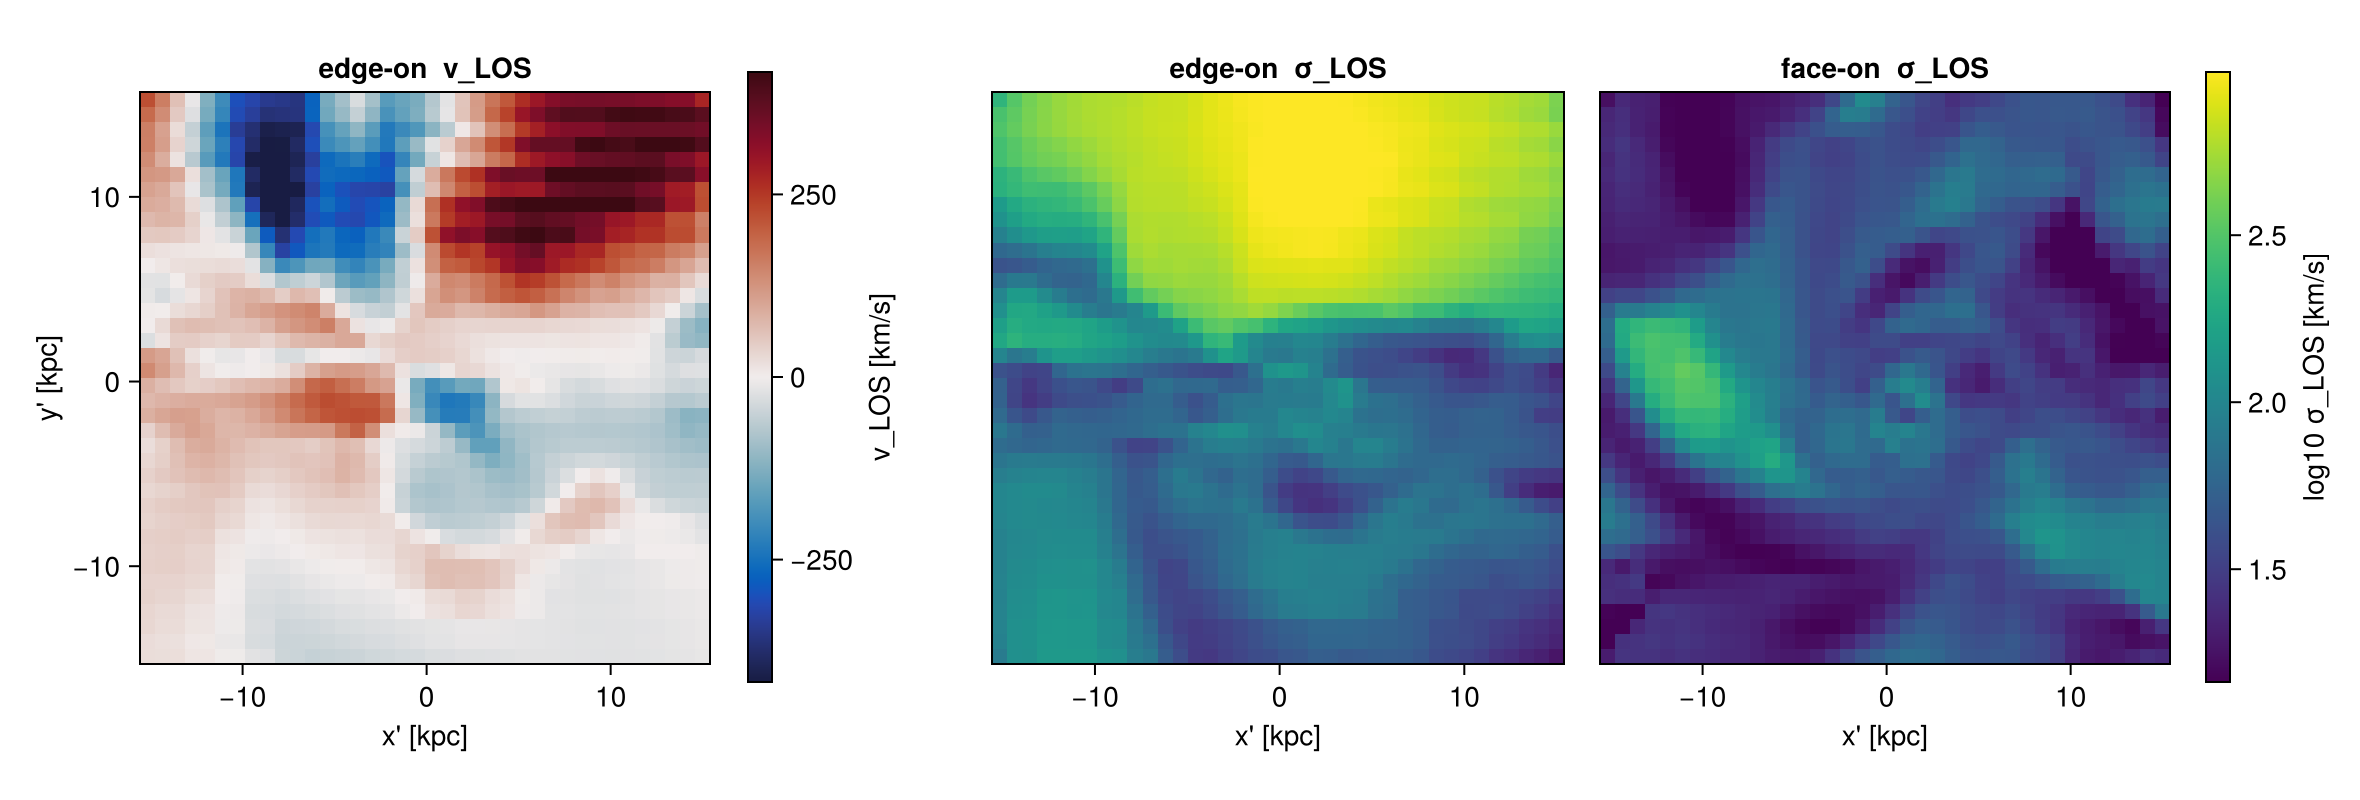
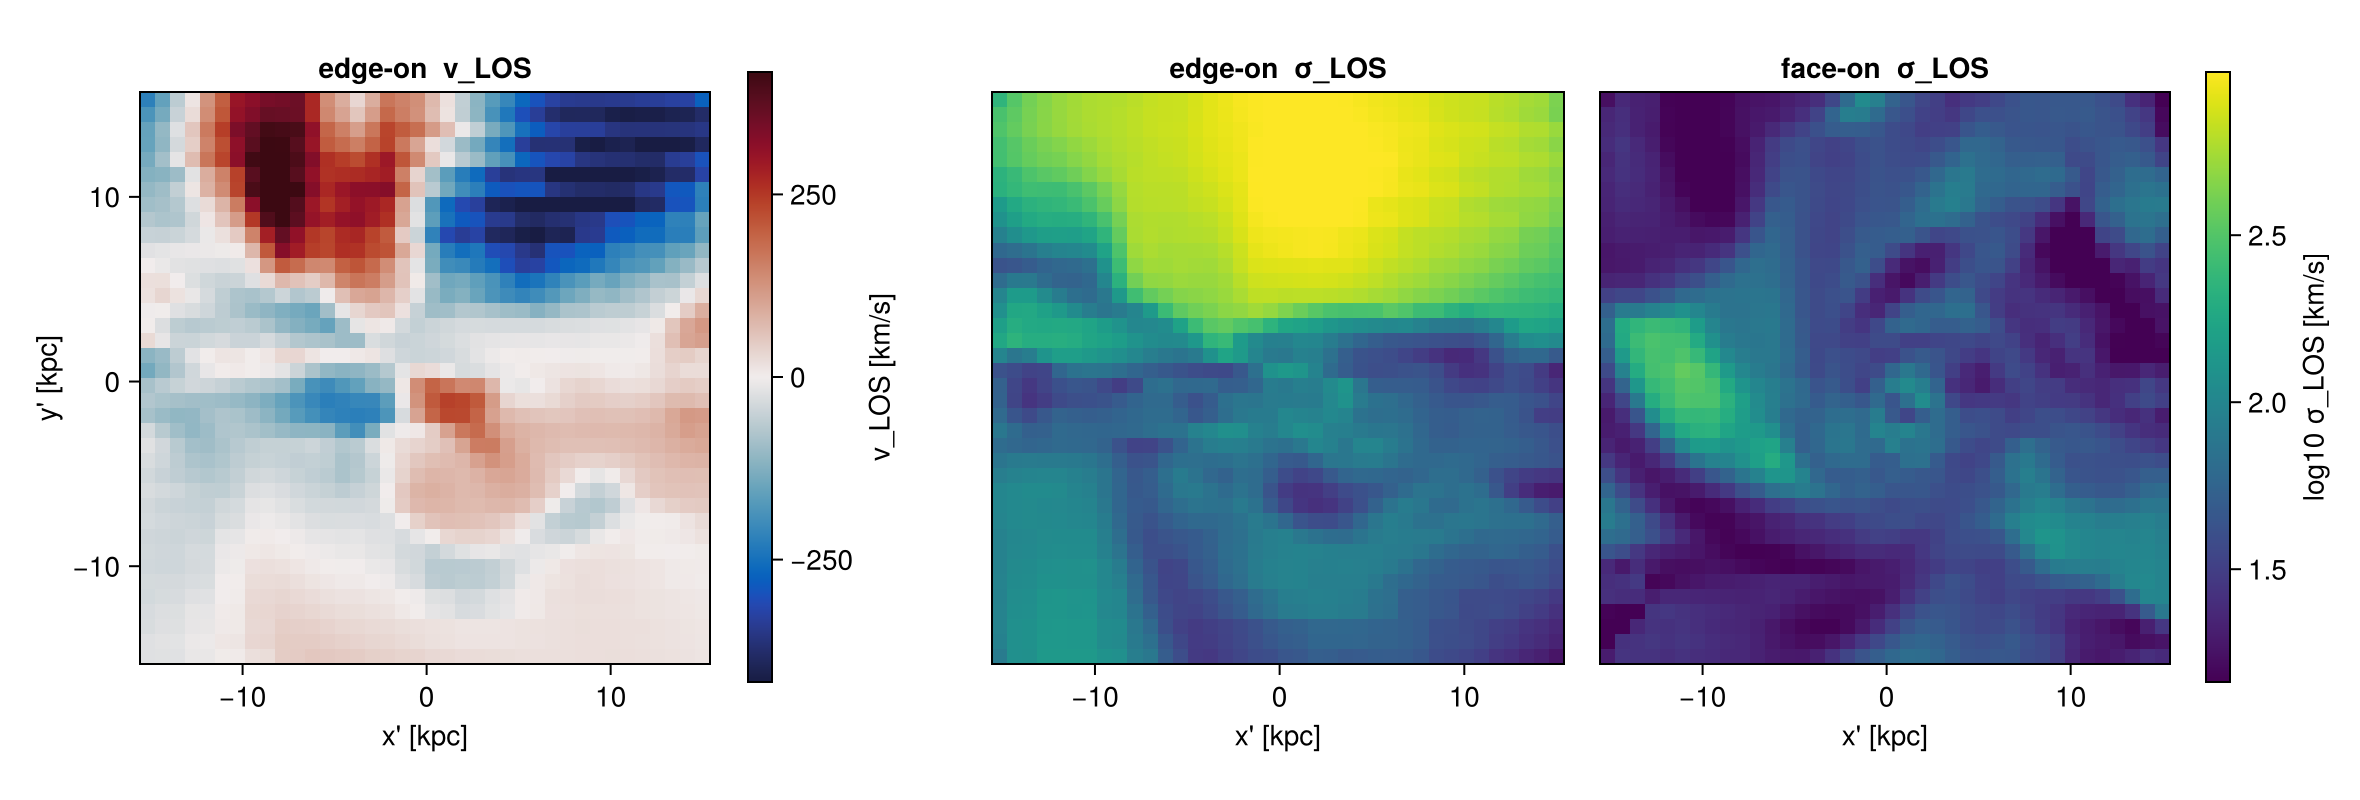
Re-run the off-axis page against the new vlos sign
* only the kinematics figure changes; the seven other maps are
  byte-identical, which is the expected signature of a vlos-only change
* 25 code cells, 0 errors, 8 figures

Changed region(s): [[0.0619, 0.0938, 0.3093, 0.75], [0.0928, 0.7812, 0.1547, 0.8438]]

diff --git a/docs/src/06_offaxis_Projection.md b/docs/src/06_offaxis_Projection.md
@@ -63,14 +63,27 @@ println("threads      : ", Threads.nthreads())
 ```
 
 ```
+[ Info: Precompiling Mera [02f895e8-fdb1-4346-8fe6-c721699f5126](cache misses: include_dependency fsize change (2), wrong source (1), dep missing source (1), mismatched flags (6))
+[ Info: Precompiling Mera [02f895e8-fdb1-4346-8fe6-c721699f5126] (cache misses: include_dependency fsize change (4), wrong source (2), dep missing source (2), mismatched flags (12))
+SYSTEM: caught exception of type :MethodError while trying to print a failed Task notice; giving up
 *__   __ _______ ______   _______
+SYSTEM: caught exception of type :MethodError while trying to print a failed Task notice; giving up
+SYSTEM: caught exception of type :MethodError while trying to print a failed Task notice; giving up
 |  |_|  |       |    _ | |   _   |
 |       |    ___|   | || |  |_|  |
+SYSTEM: caught exception of type :MethodError while trying to print a failed Task notice; giving up
 |       |   |___|   |_||_|       |
 |       |    ___|    __  |       |
 | ||_|| |   |___|   |  | |   _   |
 |_|   |_|_______|___|  |_|__| |__|
 Mera v1.8.0 | Julia 1.12.7 | 4 threads
+[ Info: Precompiling MeraMakieExt [defab1b5-6ec5-5409-a2f4-69ec619b2a0e](cache misses: wrong dep version loaded (3), incompatible header (6))
+[ Info: Precompiling MeraMakieExt [defab1b5-6ec5-5409-a2f4-69ec619b2a0e] (cache misses: wrong dep version loaded (6), incompatible header (12))
+SYSTEM: caught exception of type :MethodError while trying to print a failed Task notice; giving up
+[ Info: Mera v1.8.0
+SYSTEM: caught exception of type :MethodError while trying to print a failed Task notice; giving up
+SYSTEM: caught exception of type :MethodError while trying to print a failed Task notice; giving up
+SYSTEM: caught exception of type :MethodError while trying to print a failed Task notice; giving up
 cells loaded : 590311
 box length   : 100.0 kpc
 levels       : 3 – 7
@@ -326,7 +339,7 @@ end
              bound the depth, or `fov=<half-width>, fov_unit=…` for a fixed camera-plane
              frame (add aperture=:square for an identical frame at every angle).
              (shown once per session; verbose(false) silences Mera's messages)
-[Mera]: 2026-08-29T04:39:10.603
+[Mera]: 2026-08-30T13:16:46.662
 center: [0.5, 0.5, 0.5] ==> [50.0 [kpc] :: 50.0 [kpc] :: 50.0 [kpc]]
 domain:
 xmin::xmax: 0.28 :: 0.72  	==> 28.0 [kpc] :: 72.0 [kpc]
@@ -564,8 +577,8 @@ level 7.0:  cell 0.78  kpc  →  7.8 pixels per cell at pxsize = 0.1 kpc
 binning   empty px   time [s]  median |Δ| vs :exact [dex]
 ngp       85.7 %     0.006     1.0381
 cic       64.4 %     0.006     0.9733
-overlap   0.0 %      0.037     0.0021
-exact     0.0 %      0.092     0.0
+overlap   0.0 %      0.026     0.0021
+exact     0.0 %      0.09      0.0
 ```
 
 ### One number is not enough: where the disagreement lives
@@ -678,8 +691,8 @@ rather than a sampled approximation to it.
 
 ## 7. Line-of-sight kinematics
 
-`:vlos` is `v·ŵ`, the component of the velocity along the line of sight — defined for **any**
-camera. That is what makes it different from `:σx`/`:σy`/`:σz`, which only exist along the box axes
+`:vlos` is the velocity component along the line of sight, signed so that positive is receding,
+and it is defined for **any** camera. That is what makes it different from `:σx`/`:σy`/`:σz`, which only exist along the box axes
 and are rejected off-axis.
 
 `:σlos` is `√(⟨v_LOS²⟩ − ⟨v_LOS⟩²)` over the mass in a pixel. It is a **width of a distribution
@@ -696,14 +709,12 @@ The obvious next worry is that σ_LOS is then an artefact of how finely you pixe
 measures whether it is.
 
 !!! warning "Sign convention"
-    `:vlos` is `v·ŵ`, and `ŵ` points **out of** the image toward the observer. So `v·ŵ > 0` is gas
-    moving **toward you**, which is blueshifted, and `v·ŵ < 0` is receding.
+    `:vlos` follows the observational convention: **positive means receding** (redshifted),
+    negative means approaching (blueshifted), exactly as a radial velocity is reported in a paper.
 
-    Note that this is the opposite of the usual astronomical radial velocity, where positive means
-    receding. If you want the astronomical sign, negate the map.
-
-    You can rederive it: the map's first axis runs along `m.cam_right`, its second along `m.up`, and
-    `cam_right × up = los`, so the image is what an observer on the `+ŵ` side sees.
+    Note the relation to the camera. `ŵ` (`m.los`) points **out of** the image, toward the
+    observer, so the map is `-(v·ŵ)`. If you compute the projection yourself from `m.los`,
+    remember that minus sign, or your rotation curve comes out inverted.
 
     A sign flip inverts a rotation curve and changes nothing else in the figure, so check the shape
     too: on an edge-on map `:vlos` must be **antisymmetric about the minor axis**. If it is not, your
